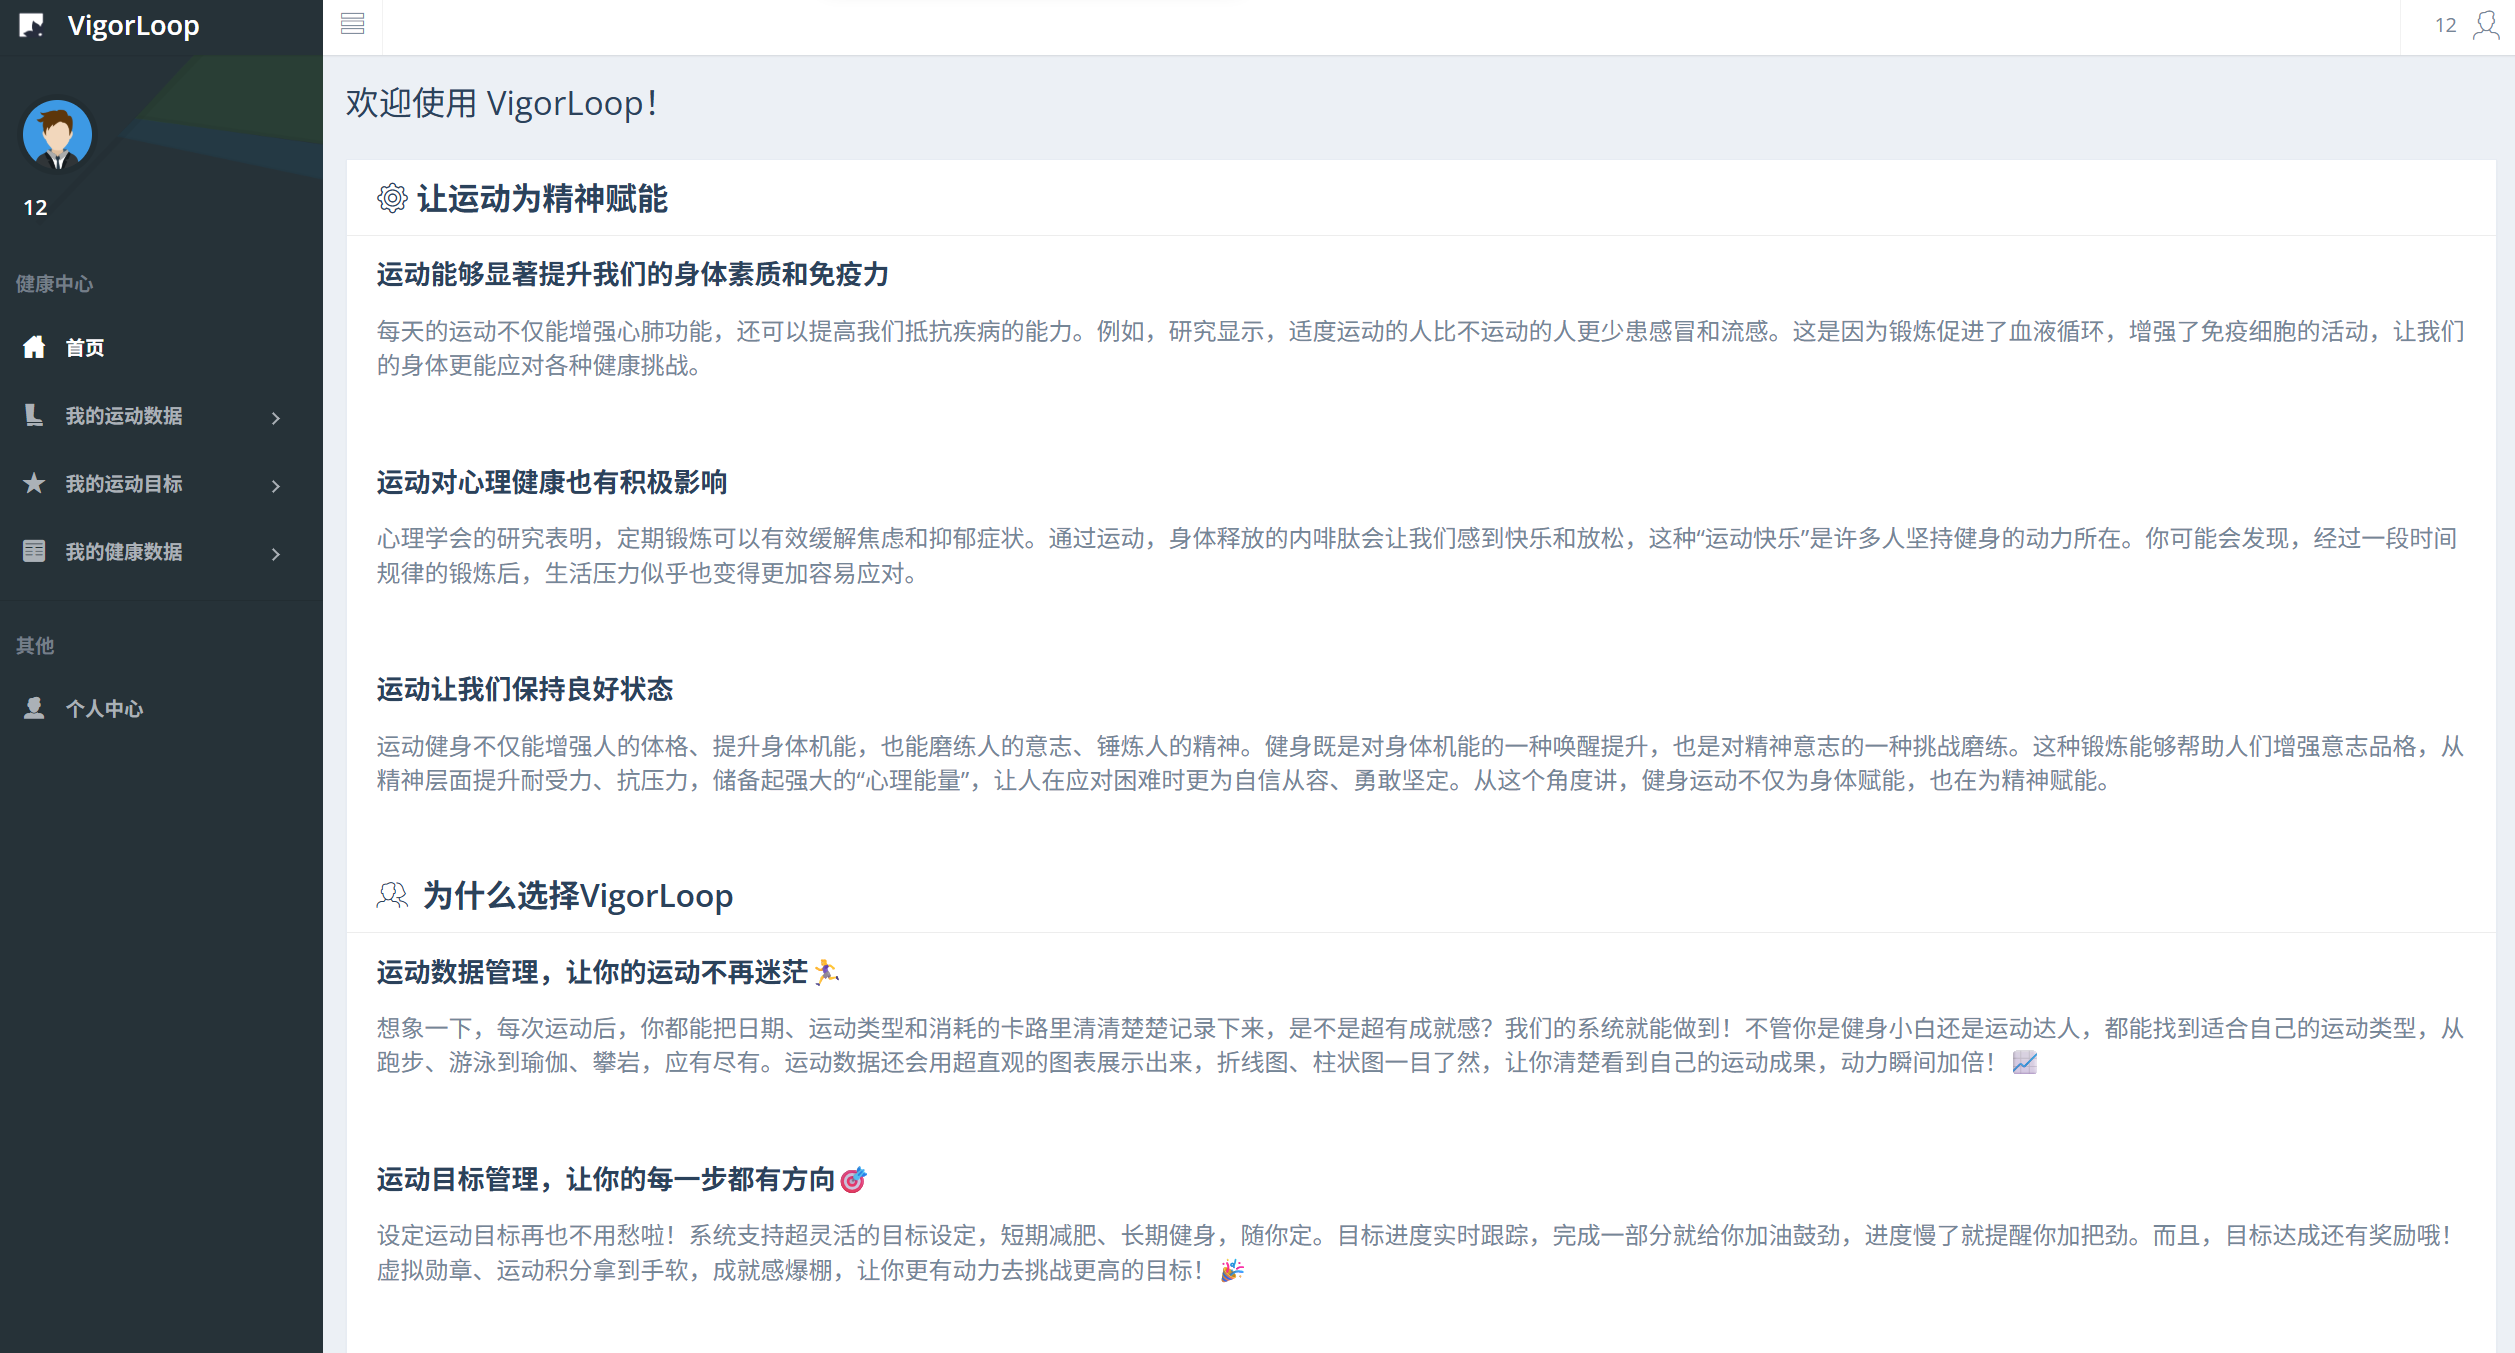
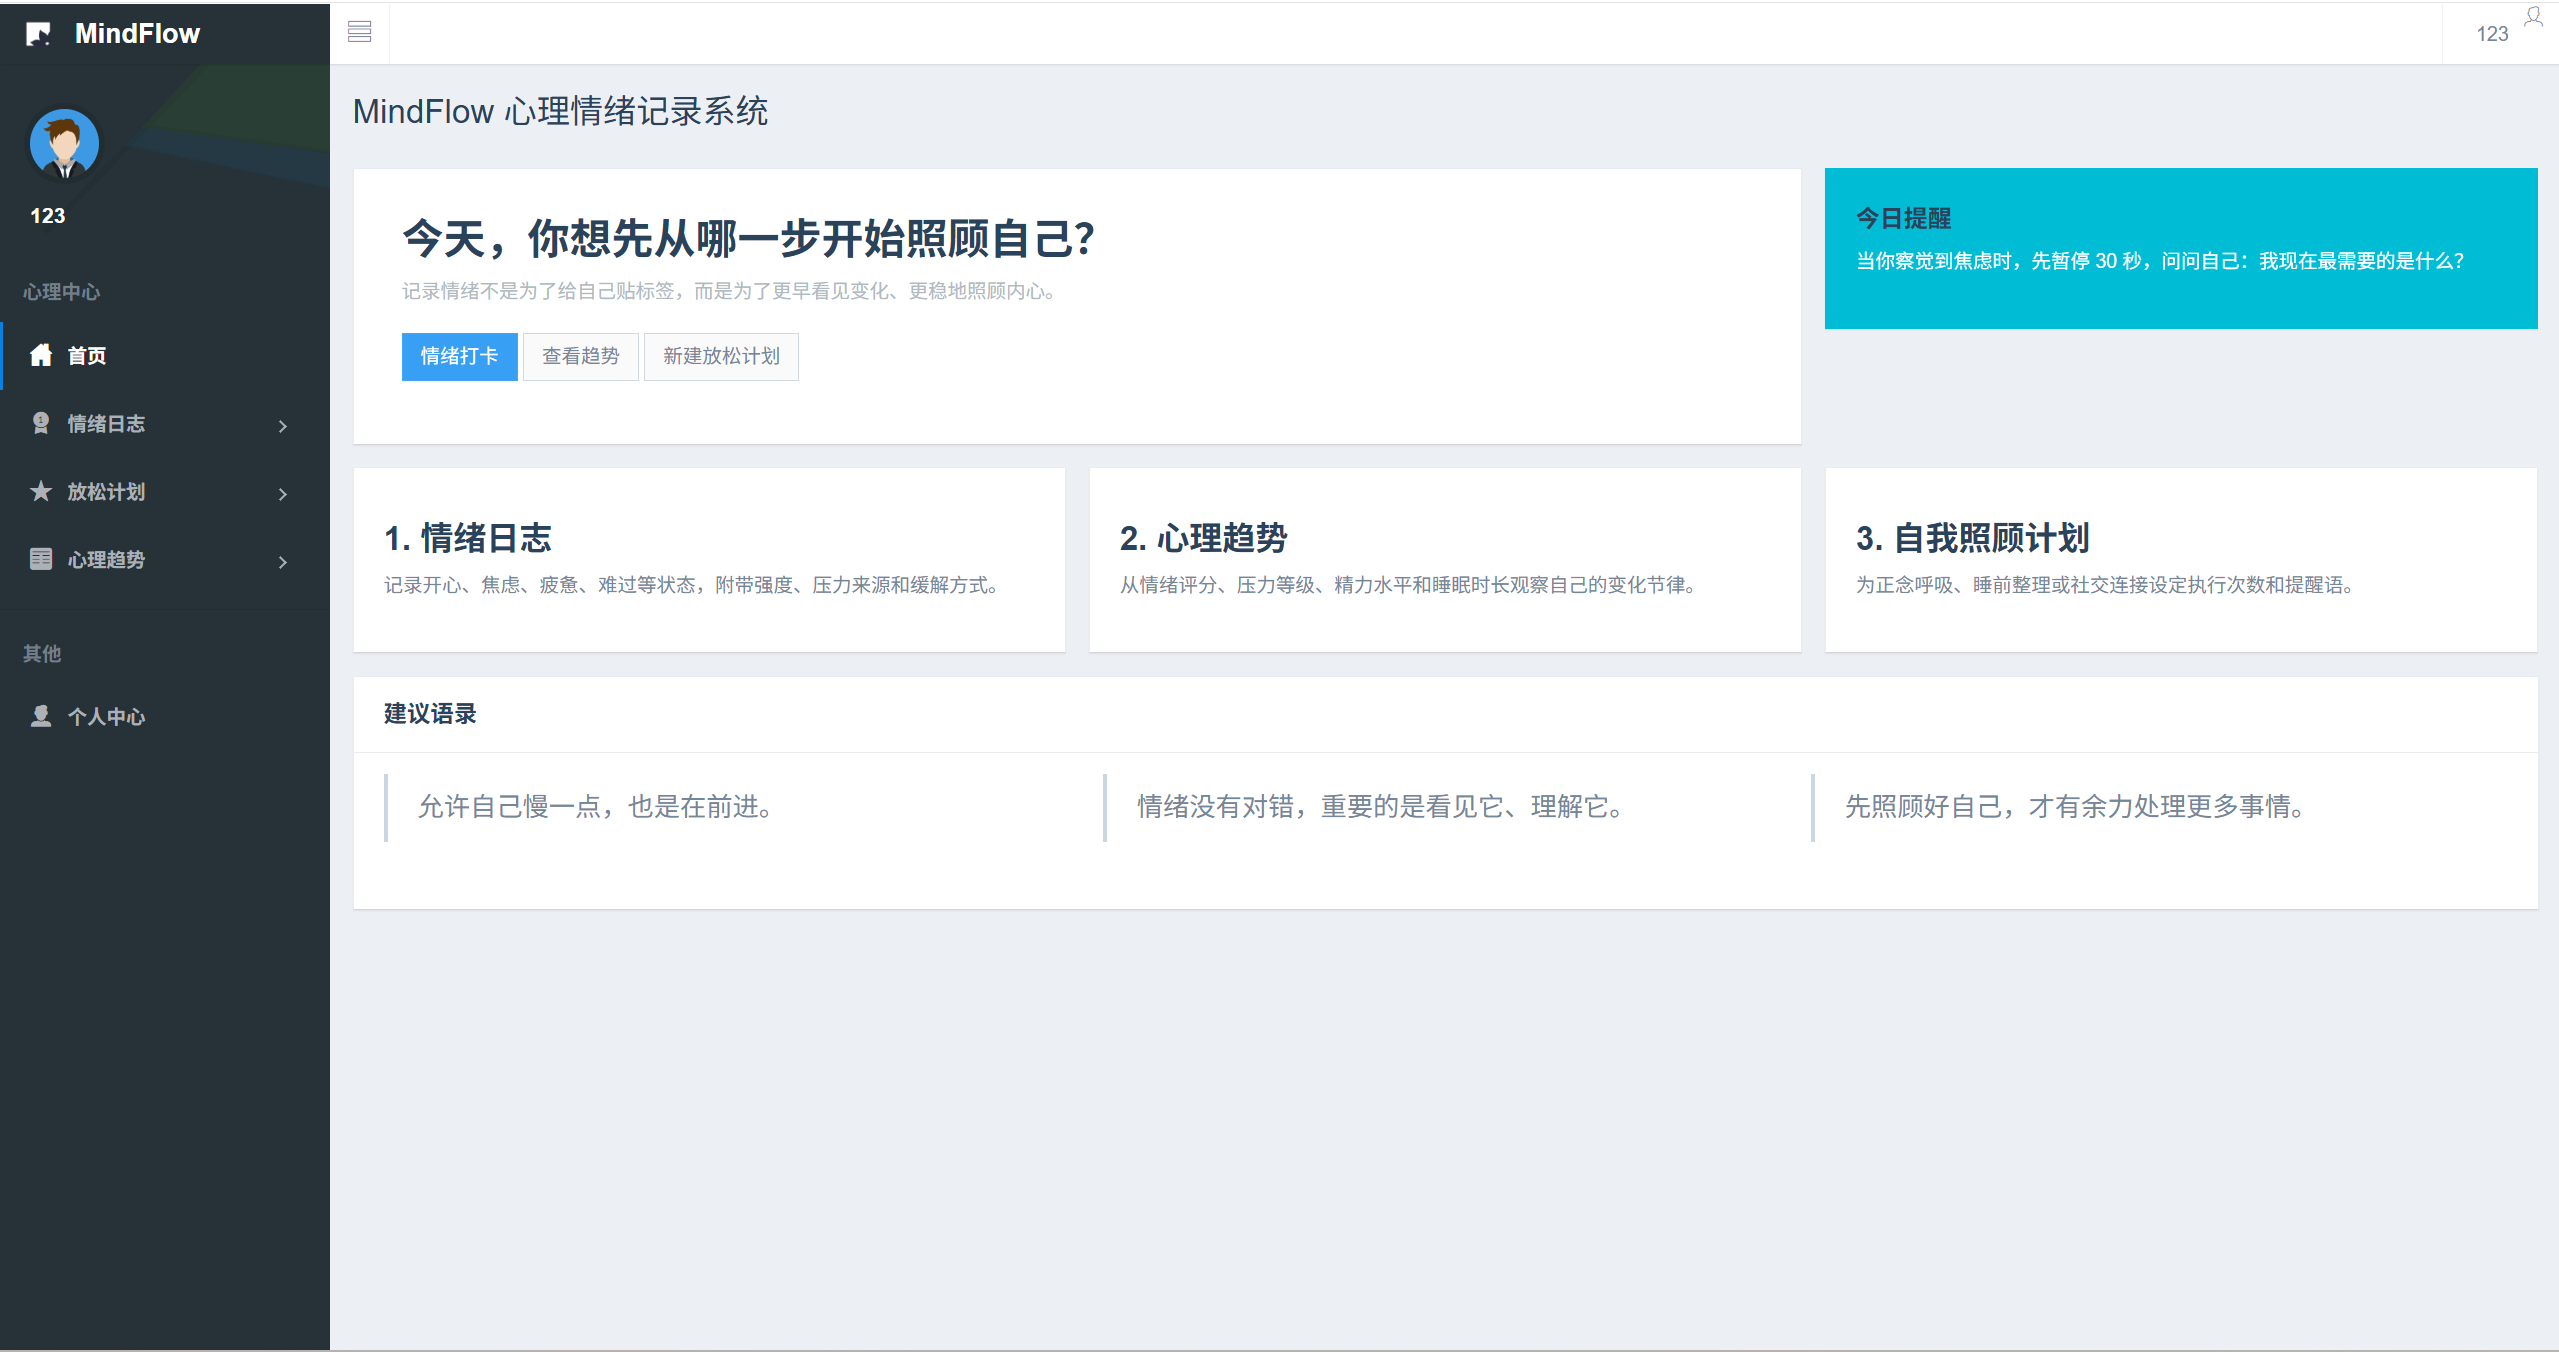
feat:update interface

diff --git a/README.md b/README.md
@@ -35,9 +35,3 @@ python manage.py runserver 8000
 ```
 
 5. 浏览器访问 `http://127.0.0.1:8000/`。
-
-## 当前改造说明
-
-- 项目已从“运动健康管理”语义改造为“心理情绪记录系统”。
-- 目录结构仍保留原 Django app 名称，便于最小成本复用课程参考代码。
-- 首次运行前请重新执行迁移，因为数据模型已经发生变化。
